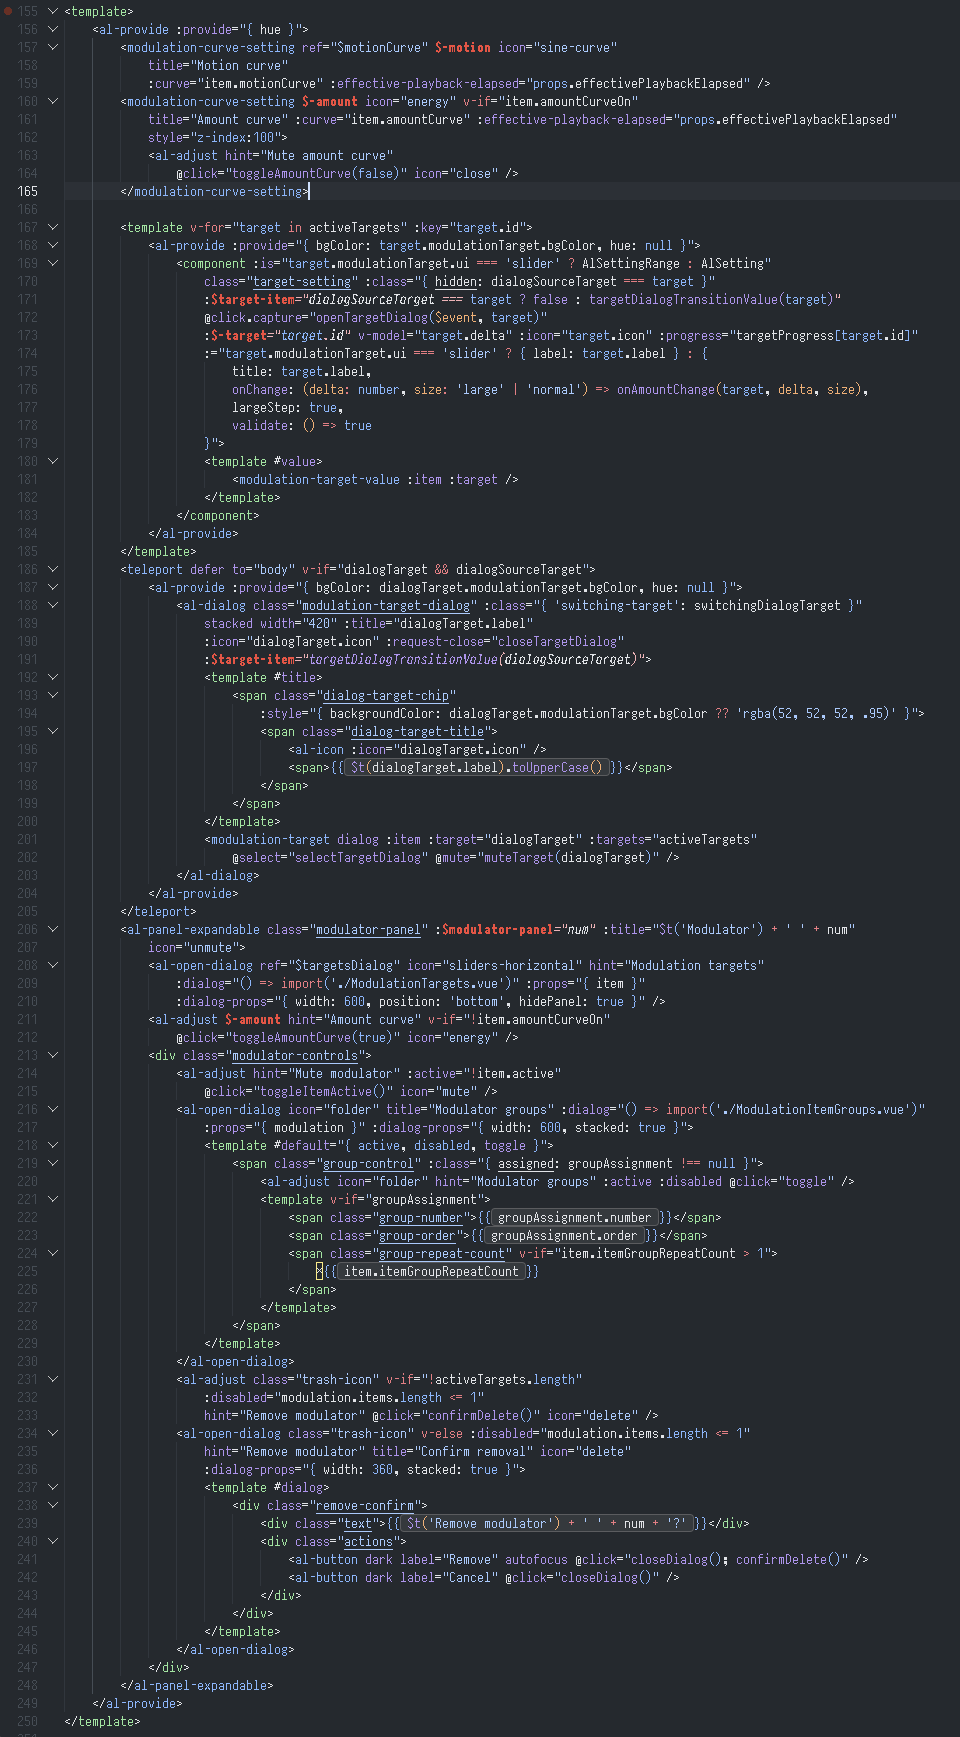
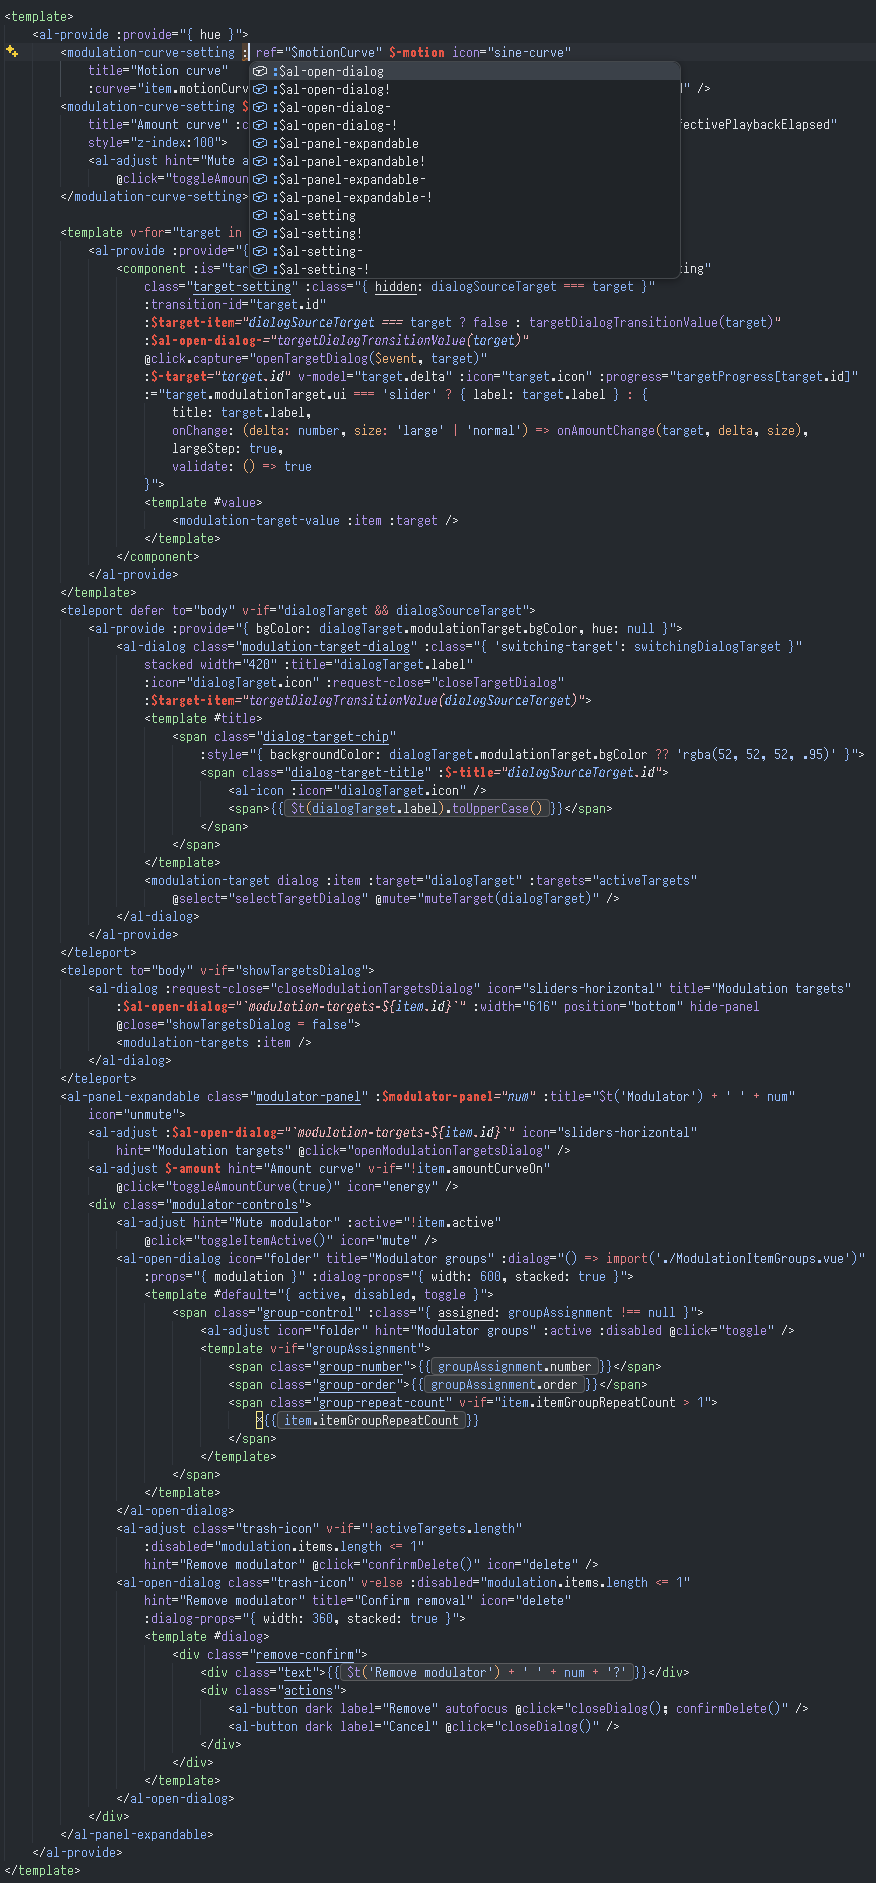
work on view transition article

Changed region(s): [[0.0, 0.0, 0.9555, 1.0], [0.7397, 0.342, 0.8938, 0.3731]]

diff --git a/app/pages/stereobv-workshop/section-title.vue b/app/pages/stereobv-workshop/section-title.vue
@@ -38,14 +38,12 @@ defineProps<{
     border: 3px solid transparent;
     border-radius: 36px;
 
-    background:
-        linear-gradient(110deg, #222, #111) padding-box,
-        linear-gradient(110deg, #8aefff, #8d9cff 50%, #c991ff) border-box;
+    background: linear-gradient(110deg, #222, #111) padding-box,
+    linear-gradient(110deg, #8aefff, #8d9cff 50%, #c991ff) border-box;
 
-    box-shadow:
-        0 0 8px rgb(120 220 255 / 25%),
-        0 0 24px rgb(130 150 255 / 15%),
-        inset 0 0 18px rgb(130 200 255 / 5%);
+    box-shadow: 0 0 8px rgb(120 220 255 / 25%),
+    0 0 24px rgb(130 150 255 / 15%),
+    inset 0 0 18px rgb(130 200 255 / 5%);
 
 
     &::before {

diff --git a/content/articles/view-transitions/index.md b/content/articles/view-transitions/index.md
@@ -4,6 +4,22 @@ slug: declarative-naming-layer-for-view-transition-api
 seoDescription: Build a declarative naming layer for the View Transition API using Vue templates, Vite transforms, TypeScript generation, and runtime orchestration.
 description: I describe how I built a declarative naming layer for the View Transition API to replace repetitive imperative orchestration with hierarchical transition attributes. The system uses Vue template syntax, Vite compiler transforms, generated TypeScript transition names, VS Code highlighting, and a single runtime startTransition function to manage complex multi-element View Transitions.
 ---
+For a long time, I treated interface animation as mostly decorative. It could make a product feel more polished or visually impressive, but I rarely considered it functionally important. In fact, I usually preferred to disable animations wherever possible. A dropdown did not seem to need an animation. Smooth scrolling often felt slower than an immediate jump. Waiting for UI motion to finish could feel like unnecessary latency.
+
+Working on more complex interfaces changed my view.
+
+Transitions can be a form of user feedback. When an interaction causes a substantial change in the interface, the developer already knows exactly what happened: which component disappeared, which one replaced it, which panel expanded, and where the new state came from. A user who is still learning the interface does not have that internal model.
+
+An abrupt state change can therefore be difficult to interpret. A transition can preserve visual continuity between the old and new states. When an element moves, expands, collapses, or transforms into another part of the interface, the motion gives the user additional information about the relationship between those states. It helps explain what their action changed and how the new layout relates to the previous one.
+
+That makes transitions part of UX rather than merely visual styling. They can reduce the cognitive cost of navigating an unfamiliar interface and make its behavior easier to learn.
+
+This is one of the reasons I became interested in the View Transition API. It gives the browser a native mechanism for creating complex transitions between DOM states without manually implementing every animation and coordinating the old and new layouts yourself. For me, this changed View Transitions from a visual extra into a useful part of interface architecture.
+
+Once I started using them more extensively, however, a different problem appeared: managing `view-transition-name` across a large component hierarchy quickly became verbose and difficult to maintain.
+
+That is the problem this article is about.
+
 # A Declarative Naming Layer for the View Transition API
 
 The View Transition API is one of the browser APIs I enjoy using most. For simple cases, it is remarkably compact: update the DOM inside `document.startViewTransition()`, assign a few `view-transition-name` values, and let the browser handle the snapshots and interpolation.
@@ -18,7 +34,7 @@ The code was becoming substantially more verbose than the UI behavior it describ
 
 I eventually moved the problem into a separate declarative naming layer.
 
-The result is a small internal system used in StereoBV Workshop. View transition participation is described directly in component templates using attributes, while a runtime function activates the required transition hierarchy only for the duration of a transition. Vite compiler transforms, generated TypeScript types, and a VS Code grammar provide the tooling around it.
+The result is a small internal system used in [StereoBV Workshop](/stereobv-workshop). View transition participation is described directly in component templates using attributes, while a runtime function activates the required transition hierarchy only for the duration of a transition. Vite compiler transforms, generated TypeScript types, and a VS Code grammar provide the tooling around it.
 
 The browser still performs the actual View Transition. The new layer deals with naming and orchestration.
 
@@ -58,7 +74,7 @@ Something like this would have been expressive:
 
 The limitation appeared as soon as the directive was placed on components.
 
-Vue directives used on components are applied to the component root. Unlike fallthrough attributes, they cannot be forwarded to another element with `v-bind="$attrs"`. Multi-root components add further restrictions. [Vue.js](https://vuejs.org/guide/reusability/custom-directives.html?utm_source=chatgpt.com)
+Vue directives used on components are applied to the component root. Unlike fallthrough attributes, they cannot be forwarded to another element with `v-bind="$attrs"`. Multi-root components add further restrictions.
 
 My UI has a deep component hierarchy, including many internal UI components. I needed transition metadata to move naturally through those abstraction layers.
 
@@ -127,7 +143,7 @@ The hierarchy can cross Vue component boundaries because the compiler output con
 
 Several transition families can also coexist in the same area of the application. An element can permanently declare metadata for several possible scenarios while receiving only the actual `view-transition-name` relevant to the transition currently being executed.
 
-This avoids a major practical problem of the native property: a rendered element taking part in a named View Transition has one `view-transition-name`, and custom names must be unique among participating rendered elements. [MDN Web Docs](https://developer.mozilla.org/en-US/docs/Web/CSS/Reference/Properties/view-transition-name?utm_source=chatgpt.com)
+This avoids a major practical problem of the native property: a rendered element taking part in a named View Transition has one `view-transition-name`, and custom names must be unique among participating rendered elements.
 
 My layer therefore treats names as potential roles rather than permanent CSS state.
 
@@ -151,7 +167,7 @@ Sometimes a component is only a structural boundary. Its children need a shared 
 
 These controls make that decision part of the template rather than additional JavaScript.
 
-The runtime also supports compact shortcut definitions and the browser's `match-element` mode for cases where element identity itself should supply the unique transition matching. Internally, the parser resolves all of these forms into the same transition definition model. utils
+The runtime also supports compact shortcut definitions and the browser's `match-element` mode for cases where element identity itself should supply the unique transition matching. Internally, the parser resolves all of these forms into the same transition definition model.
 
 ## The `$` Syntax Exists Only During Authoring
 
@@ -173,7 +189,7 @@ transition-modulator-panel
 transition--amount
 ```
 
-Additional marker attributes are generated when propagation or parent-only behavior is requested. The transform operates on the Vue compiler AST, including both static attributes and static `v-bind` argument names. vite-plugin-vue-transition-attr…
+Additional marker attributes are generated when propagation or parent-only behavior is requested. The transform operates on the Vue compiler AST, including both static attributes and static `v-bind` argument names. 
 
 For example, the source-level `!` suffix becomes an internal `--no-propagate` marker, while a trailing `-` on a named family produces a `--parent-only` marker. vite-plugin-vue-transition-attr…
 
@@ -221,7 +237,7 @@ Multiple prefixes can also be supplied to activate several declarative hierarchi
 
 Internally, `startTransition()` performs the lifecycle that I previously had scattered across individual features.
 
-Before calling `document.startViewTransition()`, it resolves the requested prefixes and temporarily assigns `viewTransitionName` to matching elements. During the update callback it performs the application state change, waits for Vue's `nextTick()`, removes the old assignments, scans the updated DOM, and assigns names again for the new state. After the browser reports the transition as finished, all temporary names are removed. utils
+Before calling `document.startViewTransition()`, it resolves the requested prefixes and temporarily assigns `viewTransitionName` to matching elements. During the update callback it performs the application state change, waits for Vue's `nextTick()`, removes the old assignments, scans the updated DOM, and assigns names again for the new state. After the browser reports the transition as finished, all temporary names are removed.
 
 The second scan is important. A transition frequently changes which elements exist. The old snapshot and new snapshot therefore cannot rely on a single static set of DOM nodes.
 
@@ -240,7 +256,7 @@ modulator-panel-2-motion
 modulator-panel-2-amount
 ```
 
-The runtime performs that matching centrally instead of requiring every call site to enumerate all participating elements. utils
+The runtime performs that matching centrally instead of requiring every call site to enumerate all participating elements.
 
 ## Keeping CSS Generic
 
@@ -296,7 +312,7 @@ That generated constant feeds the runtime type:
 type TransitionPrefix = typeof transitionNames[number] | `${typeof transitionNames[number]}-${string}`;
 ```
 
-As a result, creating a new transition family in a template automatically makes the name available to TypeScript autocomplete at `startTransition()` call sites. The same generated information also catches many naming mistakes during development. utils vite-plugin-transition-names
+As a result, creating a new transition family in a template automatically makes the name available to TypeScript autocomplete at `startTransition()` call sites. The same generated information also catches many naming mistakes during development.
 
 There is no separate registry to remember to update.
 
@@ -304,7 +320,7 @@ The template is the source of truth.
 
 ## The Real Production Case
 
-This system grew out of StereoBV Workshop rather than an isolated animation experiment.
+This system grew out of [StereoBV Workshop](/stereobv-workshop) rather than an isolated animation experiment.
 
 A single modulation component already contains several examples: dynamically identified modulator panels, motion and amount children, target settings, slider values, dialog transitions, and transitions started both from DOM elements and from explicit hierarchical prefixes.
 
@@ -320,7 +336,7 @@ The runtime connects the two.
 
 ## This Is Not Fundamentally Vue-Specific
 
-My current implementation is integrated deeply with Vue because StereoBV Workshop uses Vue. The compiler transform uses Vue's compiler packages, the generated-name plugin scans `.vue` templates, and the transition runtime waits for `nextTick()` before resolving the new DOM.
+My current implementation is integrated deeply with Vue because [StereoBV Workshop](/stereobv-workshop) uses Vue. The compiler transform uses Vue's compiler packages, the generated-name plugin scans `.vue` templates, and the transition runtime waits for `nextTick()` before resolving the new DOM.
 
 The underlying model is framework-independent.
 
@@ -342,6 +358,6 @@ The final workflow is now straightforward: mark potential participants in the te
 
 Vite handles the source transformation and name discovery. TypeScript provides autocomplete and validation. The editor makes the structure visually recognizable. CSS focuses on the resulting animation.
 
-This changed View Transitions in StereoBV Workshop from feature-specific imperative code into reusable infrastructure.
+This changed View Transitions in [StereoBV Workshop](/stereobv-workshop) from feature-specific imperative code into reusable infrastructure.
 
 And, more importantly for a growing UI, adding the next transition no longer requires inventing another orchestration mechanism.
